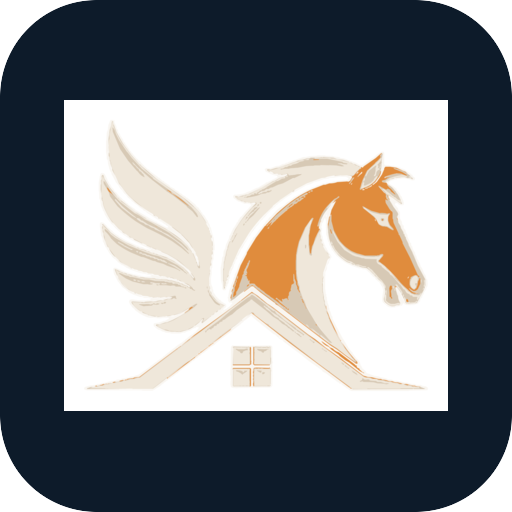
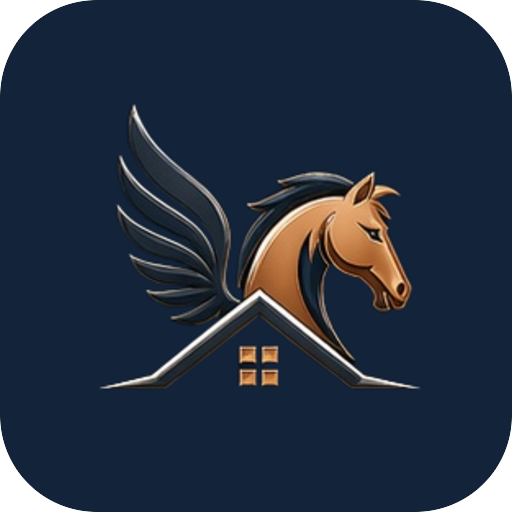
Update website branding and team positioning for a more established feel
Replaces outdated logo assets with new artwork, repositions company messaging from a singular general contractor to a team-based structure, and introduces new content for the development team section.

Replit-Commit-Author: Agent
Replit-Commit-Session-Id: d6dd4d77-7791-444c-8174-f2f8e5b7ffed
Replit-Commit-Checkpoint-Type: full_checkpoint
Replit-Commit-Event-Id: c7c6f91d-abf5-44cf-b72c-4df34dcb4f43
Replit-Commit-Screenshot-Url: https://storage.googleapis.com/screenshot-production-us-central1/41a8aaaf-db4e-44db-8781-c0795f489b15/d6dd4d77-7791-444c-8174-f2f8e5b7ffed/Nlv2Xav
Replit-Helium-Checkpoint-Created: true

diff --git a/client/src/pegasus/data.tsx b/client/src/pegasus/data.tsx
@@ -93,9 +93,9 @@ export const PILLARS3: Pillar[] = [
     eyebrow: 'Pillar 01',
     tag: 'Investments',
     title: <>We acquire and<br />reposition real assets</>,
-    lead: 'Distressed, dated, off-market, and overlooked property. We buy it right, reposition it with discipline, and exit on a plan written before we close.',
+    lead: 'Our acquisitions team are deal architects: we source distressed, dated, off-market, and overlooked property, then negotiate and structure each deal toward a win-win. We buy it right, reposition it with discipline, and exit on a plan written before we close.',
     points: [
-      'Off-market and value-add acquisitions',
+      'Sourcing, negotiation, and deal structure under one roof',
       'Underwriting on real numbers, not hope',
       'Capital partners on clearly defined terms',
     ],
@@ -108,10 +108,10 @@ export const PILLARS3: Pillar[] = [
     eyebrow: 'Pillar 02',
     tag: 'Development',
     title: <>We build the<br />finished product</>,
-    lead: 'With a licensed general contractor on the team, renovation and ground-up work is GC-led, scoped to a real budget and draw schedule, and delivered on time, to a standard.',
+    lead: 'Our development team brings decades of combined experience: former general contractors, project managers, and trades who have run real jobsites. They scope every renovation and ground-up build to a real budget and draw schedule, work hand in hand with a deep bench of GCs and subcontractors, and deliver on time, to a standard.',
     points: [
       'Renovation and ground-up development',
-      'GC of record on every build',
+      'Led by our development team, built with a vetted bench of GCs and subs',
       'A delivered product, not a project left open',
     ],
     img: 'pegasus-craft-blueprint.png',
@@ -268,7 +268,7 @@ export const ECOSYSTEM: {
   { key: 'lab', name: 'Strategy Lab', role: 'The underwriting tool', desc: 'Self-serve modeling that returns an Instant Strategy Preview on any deal.', icon: 'calculator', status: 'Operating', route: 'strategylab' },
   { key: 'marketflow', name: 'MarketFlow', role: 'The marketplace', desc: 'Three lanes that move deals, match capital, and place finished inventory.', icon: 'route', status: 'Building', route: 'marketflow' },
   { key: 'capstack', name: 'CapStack', role: 'The capital layer', desc: 'How funding is structured and matched to projects, on defined terms.', icon: 'layers', status: 'Building', route: 'capital' },
-  { key: 'buildforge', name: 'BuildForge', role: 'The construction arm', desc: 'GC-led oversight that turns scope, budget, and draw schedule into delivered product.', icon: 'hammer', status: 'Operating', route: 'development' },
+  { key: 'buildforge', name: 'BuildForge', role: 'The construction arm', desc: 'Our development team turning scope, budget, and draw schedule into delivered product.', icon: 'hammer', status: 'Operating', route: 'development' },
 ];
 
 /* ================================================================
@@ -278,7 +278,17 @@ export const DOCTRINE: { t: string; d: string }[] = [
   { t: 'Read the situation, not just the spreadsheet', d: 'Behind every property is a person with a deadline, a constraint, or a decision. We solve for both.' },
   { t: 'Underwrite on real numbers', d: 'All-in cost, after-repair value, and the spread. If it does not pencil, we say so.' },
   { t: 'Write the exit before we enter', d: 'Sell, hold, refinance, or trade. The plan is decided before capital moves, not after.' },
-  { t: 'Deliver a finished product', d: 'A GC-led build means the work gets done to a standard, on a real schedule, not left half-open.' },
+  { t: 'Deliver a finished product', d: 'Our development team takes the work to a standard, on a real schedule, not left half-open.' },
+];
+
+/* ================================================================
+   DEVELOPMENT TEAM (capability band)
+   ================================================================ */
+export const DEV_TEAM: { t: string; d: string }[] = [
+  { t: 'Decades, combined', d: 'Former general contractors, project managers, and trades who have actually run jobsites, not a single hire we depend on.' },
+  { t: 'A deep bench', d: 'We work hand in hand with a vetted network of GCs and subcontractors, scaled to the project instead of limited to one crew.' },
+  { t: 'Scoped before we build', d: 'Every project starts with a real budget and a draw schedule, so the plan is honest before the first hammer swings.' },
+  { t: 'Built to one standard', d: 'A single definition of done, applied to every renovation and ground-up build, and delivered on a real timeline.' },
 ];
 
 /* ================================================================
@@ -287,7 +297,7 @@ export const DOCTRINE: { t: string; d: string }[] = [
 export const FAQ_HOME: FaqItem[] = [
   {
     q: 'What does Pegasus actually do?',
-    a: 'Three things that feed each other: we invest in and reposition real property, we build and renovate it with a licensed general contractor on the team, and we run the systems (Strategy Lab, PeggyAI, and MarketFlow) that turn each deal into a repeatable process.',
+    a: 'Three things that feed each other: we invest in and reposition real property, our development team builds and renovates it to a standard, and we run the systems (Strategy Lab, PeggyAI, and MarketFlow) that turn each deal into a repeatable process.',
   },
   {
     q: 'I just have one property. Is that too small?',
@@ -315,10 +325,10 @@ export const APOLLO = {
   legal: 'Paolo Duran',
   role: 'Founder & Deal Architect',
   license: 'Keller Williams East Bay · DRE #02333658',
-  lead: 'Apollo (Paolo) Duran founded and leads Pegasus. He reads the deal and underwrites the numbers; a licensed general contractor on the team builds the result. One discipline runs the whole arc, from the first read to the final walkthrough.',
+  lead: 'Apollo (Paolo) Duran founded and leads Pegasus. He reads the deal and underwrites the numbers; our development team builds the result. One standard runs the whole arc, from the first read to the final walkthrough.',
   points: [
     { t: 'The architect', d: 'Apollo reads the situation, underwrites the numbers, and writes the plan.' },
-    { t: 'The build team', d: 'A licensed general contractor of record turns the plan into a delivered product.' },
+    { t: 'The development team', d: 'Former GCs, project managers, and trades turn the plan into a delivered product.' },
     { t: 'The standard', d: 'Every deal runs through the same discipline, from first call to final walkthrough.' },
   ],
 };
@@ -331,7 +341,7 @@ export const NELSON = {
   blurb: 'A tired single-family home, acquired off-market, repositioned to standard, and delivered.',
   rows: [
     { k: 'Acquired', v: '≈ $600K', note: 'Off-market, below comparable value' },
-    { k: 'Renovation', v: '≈ $90K to $100K', note: 'GC-led oversight' },
+    { k: 'Renovation', v: '≈ $90K to $100K', note: 'Managed by our development team' },
     { k: 'Delivered', v: '≈ $840K', note: 'Repositioned to the standard' },
   ],
 };
@@ -612,7 +622,7 @@ export const CATEGORIES: Record<AudienceKey, Category> = {
       { t: 'A standard to hit', d: 'You know exactly what "done" looks like before you start.' },
     ],
     rich: ['surfaces', 'faq'],
-    quote: 'Led by a licensed GC, so we know what good work costs, and we respect it.',
+    quote: 'Our development team came up through the trades, so we know what good work costs, and we respect it.',
     forYou: [
       'You are a GC, sub, agent, lender, title, or inspection partner',
       'You deliver quality and want consistent, well-scoped work',
@@ -625,7 +635,7 @@ export const CATEGORIES: Record<AudienceKey, Category> = {
     secondary: { label: 'See how we build', route: 'development' },
     faq: [
       { q: 'How do you scope work?', a: 'Every project comes with a real plan and budget. You bid against a defined scope, not a vague wish list.' },
-      { q: 'How do payments work?', a: 'On a defined draw schedule agreed before work starts, and honored. Construction is GC-led, so we understand cash flow on a jobsite.' },
+      { q: 'How do payments work?', a: 'On a defined draw schedule agreed before work starts, and honored. Our development team has run jobsites, so we understand cash flow.' },
     ],
     form: {
       role: 'Operator',

diff --git a/client/src/pegasus/pages.tsx b/client/src/pegasus/pages.tsx
@@ -3,7 +3,7 @@ import { ArrowRight, ConciergeBell, Check, Send, Calculator, Compass, Ruler, Lan
 import type { Nav, Theme, Category, FormCfg, PeggyHandoff } from './theme';
 import { IMG, SectionHead, ContourLines, BrandMark } from './primitives';
 import {
-  CATEGORIES, PILLARS3, FAQ_HOME, APOLLO, NELSON, MARKETFLOW, PEGGY_CHIPS, PEGGY_SLA,
+  CATEGORIES, PILLARS3, FAQ_HOME, APOLLO, NELSON, MARKETFLOW, PEGGY_CHIPS, PEGGY_SLA, DEV_TEAM,
 } from './data';
 import {
   PageHero, Hero, HomeIntro, LaneCardsBlock, ThreePillarsBlock, PillarSection,
@@ -38,7 +38,7 @@ const MARKETFLOW_FORM: FormCfg = {
 
 const MARKETFLOW_PREVIEW = [
   { tag: 'Sample deal card', title: 'Value-add SFR · East Bay', lines: ['All-in vs. delivered value', 'Scope & projected timeline', 'Status: reviewed · under contract'] },
-  { tag: 'Operator profile', title: 'Licensed GC · 12 projects', lines: ['Trade verified · references checked', 'On-time delivery record', 'Active in Contra Costa'] },
+  { tag: 'Operator profile', title: 'Licensed GC · verified operator', lines: ['Trade verified · references checked', 'On-time delivery record', 'Active in Contra Costa'] },
   { tag: 'Buyer interest', title: 'Capital partner mandate', lines: ['Check size & risk band', 'Asset types they back', 'Matched to projects, not pools'] },
   { tag: 'Trust layer', title: 'Verification badges', lines: ['Identity & license reviewed', 'Source attribution logged', 'Written terms before introductions'] },
 ];
@@ -196,8 +196,22 @@ export function DevelopmentPage({ go }: { go: Nav }) {
       <PageHero eyebrow="Pillar 02 · Development"
         title={<>We build the <span className="italic text-[var(--accent-bright)]">finished product.</span></>}
         image={IMG('pegasus-craft-blueprint.png')}
-        lead="With a licensed general contractor on the team, renovation and ground-up work is GC-led, scoped to a real budget and draw schedule, and delivered on time, to a standard." />
+        lead="Our development team — former GCs, project managers, and trades with decades of combined experience — scopes every renovation and ground-up build to a real budget and draw schedule, and delivers on time, to a standard." />
       <PillarSection p={DEVELOPMENT} go={go} flip />
+      <section className="py-24 lg:py-28 bg-[var(--bg-2)] border-y border-[var(--line)]">
+        <div className="max-w-[1320px] mx-auto px-6 lg:px-12">
+          <SectionHead eyebrow="The development team" title="A bench, not a single hire."
+            copy="Construction is run by a team, not one person we hope sticks around. Decades of combined experience, scaled to the project." />
+          <div className="grid sm:grid-cols-2 lg:grid-cols-4 gap-5">
+            {DEV_TEAM.map((c, i) => (
+              <div key={c.t} className="surface-card reveal p-7" style={{ animationDelay: `${i * 70}ms` }}>
+                <h3 className="font-serif-display text-xl text-[var(--text)] mb-3 leading-tight">{c.t}</h3>
+                <p className="text-[var(--muted)] text-[0.85rem] leading-relaxed">{c.d}</p>
+              </div>
+            ))}
+          </div>
+        </div>
+      </section>
       <NelsonProof go={go} />
       <DoctrineBlock />
       <NextStep go={go} label="Work with us as an operator or vendor" route="operators" />

diff --git a/artifacts/mockup-sandbox/src/.generated/mockup-components.ts b/artifacts/mockup-sandbox/src/.generated/mockup-components.ts
@@ -9,6 +9,10 @@ export const modules: ModuleMap = {
   "./components/mockups/calculators-lab/WaterfallTimeline.tsx": () => import("../components/mockups/calculators-lab/WaterfallTimeline.tsx"),
   "./components/mockups/calculators-lab/WaterfallTuning.tsx": () => import("../components/mockups/calculators-lab/WaterfallTuning.tsx"),
   "./components/mockups/calculators-lab/Workbench.tsx": () => import("../components/mockups/calculators-lab/Workbench.tsx"),
+  "./components/mockups/path-story/DecisionTree.tsx": () => import("../components/mockups/path-story/DecisionTree.tsx"),
+  "./components/mockups/path-story/Diagnostic.tsx": () => import("../components/mockups/path-story/Diagnostic.tsx"),
+  "./components/mockups/path-story/Editorial.tsx": () => import("../components/mockups/path-story/Editorial.tsx"),
+  "./components/mockups/path-story/Switchboard.tsx": () => import("../components/mockups/path-story/Switchboard.tsx"),
   "./components/mockups/home-redesign/Atelier.tsx": () => import("../components/mockups/home-redesign/Atelier.tsx"),
   "./components/mockups/home-redesign/Blueprint.tsx": () => import("../components/mockups/home-redesign/Blueprint.tsx"),
   "./components/mockups/home-redesign/Cinematic.tsx": () => import("../components/mockups/home-redesign/Cinematic.tsx"),
@@ -17,10 +21,6 @@ export const modules: ModuleMap = {
   "./components/mockups/home-redesign/Editorial.tsx": () => import("../components/mockups/home-redesign/Editorial.tsx"),
   "./components/mockups/home-redesign/Monolith.tsx": () => import("../components/mockups/home-redesign/Monolith.tsx"),
   "./components/mockups/home-redesign/Terminal.tsx": () => import("../components/mockups/home-redesign/Terminal.tsx"),
-  "./components/mockups/path-story/DecisionTree.tsx": () => import("../components/mockups/path-story/DecisionTree.tsx"),
-  "./components/mockups/path-story/Diagnostic.tsx": () => import("../components/mockups/path-story/Diagnostic.tsx"),
-  "./components/mockups/path-story/Editorial.tsx": () => import("../components/mockups/path-story/Editorial.tsx"),
-  "./components/mockups/path-story/Switchboard.tsx": () => import("../components/mockups/path-story/Switchboard.tsx"),
   "./components/mockups/strategy-lab-redesign/Architectural.tsx": () => import("../components/mockups/strategy-lab-redesign/Architectural.tsx"),
   "./components/mockups/strategy-lab-redesign/Atelier.tsx": () => import("../components/mockups/strategy-lab-redesign/Atelier.tsx"),
   "./components/mockups/strategy-lab-redesign/Atlas.tsx": () => import("../components/mockups/strategy-lab-redesign/Atlas.tsx"),

diff --git a/client/src/pegasus/blocks.tsx b/client/src/pegasus/blocks.tsx
@@ -114,7 +114,7 @@ export function HomeIntro() {
         </div>
         <div className="lg:col-span-8 reveal delay-100">
           <p className="font-serif-display text-3xl md:text-[2.7rem] leading-[1.25] text-[var(--text)] tracking-[-0.01em]">
-            Most real estate is a transaction shop that lists it, flips it, and moves on. We built the opposite: we <span className="text-[var(--accent)]">invest</span> in property others overlook, <span className="text-[var(--accent)]">develop</span> it with a licensed general contractor on the team, and run the <span className="text-[var(--accent)]">systems</span> that turn each deal into a repeatable process.
+            Most real estate is a transaction shop that lists it, flips it, and moves on. We built the opposite: we <span className="text-[var(--accent)]">invest</span> in property others overlook, <span className="text-[var(--accent)]">develop</span> it through our own development team, and run the <span className="text-[var(--accent)]">systems</span> that turn each deal into a repeatable process.
           </p>
         </div>
       </div>
@@ -486,7 +486,7 @@ export function ApolloBlock({ go, showCta = true }: { go: Nav; showCta?: boolean
             ))}
           </div>
           <div className="flex flex-wrap items-center gap-x-8 gap-y-3 pg-label !text-[10px] text-[var(--muted)] mb-9">
-            <span>Licensed REALTOR</span><span>{APOLLO.license}</span><span>NAR · CAR</span><span>GC license in progress</span>
+            <span>Licensed REALTOR</span><span>{APOLLO.license}</span><span>NAR · CAR</span><span>Backed by an in-house development team</span>
           </div>
           {showCta && (
             <button type="button" onClick={() => go('apollo')} className="btn-primary px-8 py-4 pg-label !text-[10px] inline-flex items-center gap-3 group">

diff --git a/client/src/pegasus/primitives.tsx b/client/src/pegasus/primitives.tsx
@@ -1,22 +1,23 @@
 import React, { useEffect, useRef, useState } from 'react';
 import { MoveHorizontal, Sun, Moon } from 'lucide-react';
 import type { Theme } from './theme';
-import markFull from '@/assets/brand/pegasus-mark-full.svg';
-import markOnDark from '@/assets/brand/pegasus-mark-ondark.svg';
+import markLight from '@/assets/brand/pegasus-mark-light.png';
+import markDark from '@/assets/brand/pegasus-mark-dark.png';
 
 export const IMG = (name: string) => `${import.meta.env.BASE_URL}images/${name}`;
 
 /* ----------------------------------------------------------------
-   Brand mark — the winged Pegasus-over-house lockup (primary logo).
-   No background tile/chip. On light surfaces the wings + roofline are
-   navy; on dark surfaces (onDark) a light variant keeps them legible
-   while the horse stays orange. Clean recolored vector.
+   Brand mark — the founder's real winged-Pegasus-over-house artwork.
+   No background tile/chip. Two cuts of the same logo:
+   - light surfaces: navy wings + dark roofline + orange horse.
+   - dark surfaces (onDark): steel wings + silver roofline + orange
+     horse, so the lockup stays legible without any tile.
 ---------------------------------------------------------------- */
 export function BrandMark({ boxClassName = 'w-11 h-11', onDark = false, className = '' }:
   { boxClassName?: string; onDark?: boolean; className?: string }) {
   return (
     <span className={`inline-flex items-center justify-center shrink-0 ${boxClassName} ${className}`}>
-      <img src={onDark ? markOnDark : markFull} alt="Pegasus DreamScapes" className="w-full h-full object-contain" />
+      <img src={onDark ? markDark : markLight} alt="Pegasus DreamScapes" className="w-full h-full object-contain" />
     </span>
   );
 }

diff --git a/client/index.html b/client/index.html
@@ -64,7 +64,7 @@
         "name": "Pegasus DreamScapes Corp.",
         "alternateName": "Pegasus DreamScapes",
         "url": "https://pegasusdreamscapes.com",
-        "logo": "https://pegasusdreamscapes.com/brand/pegasus-mark.svg",
+        "logo": "https://pegasusdreamscapes.com/icon-512.png",
         "image": "https://pegasusdreamscapes.com/og/default.png",
         "description": "Strategy-first real estate operating company. Complex property, structured opportunity. Every property gets a path.",
         "email": "apollo@pegasusdreamscapes.com",
